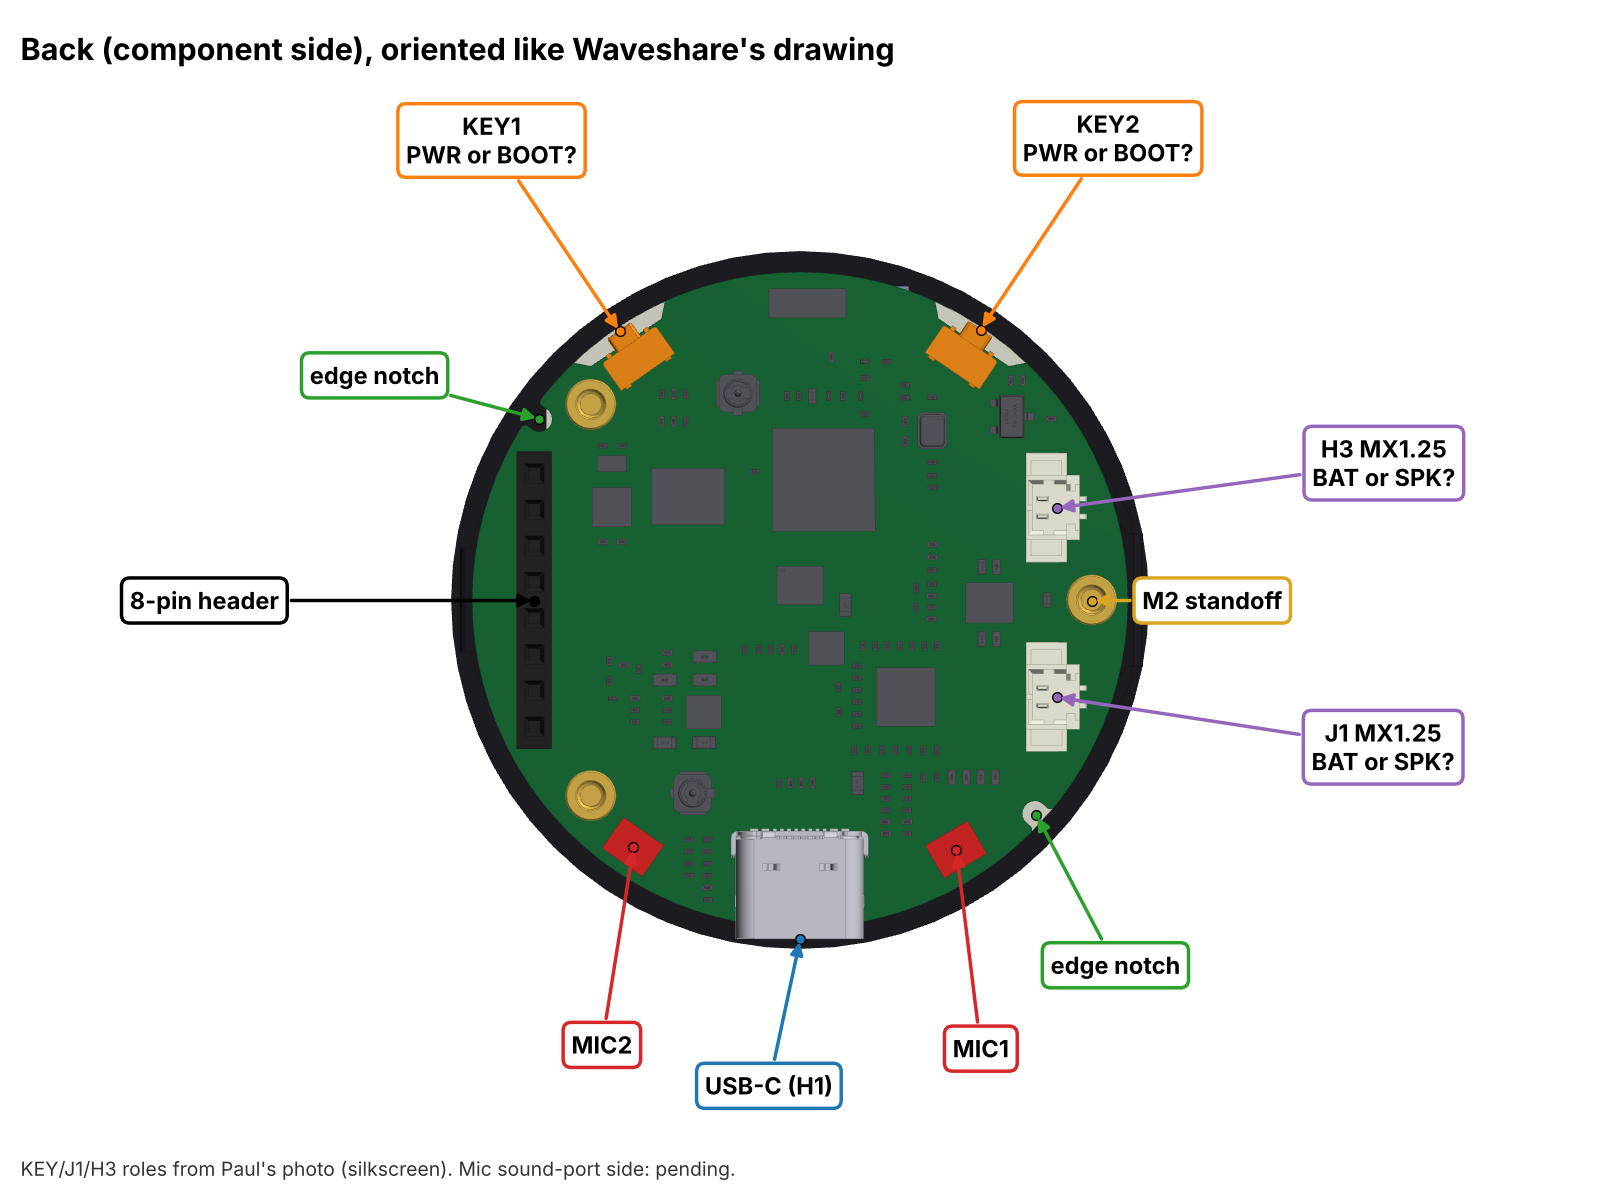
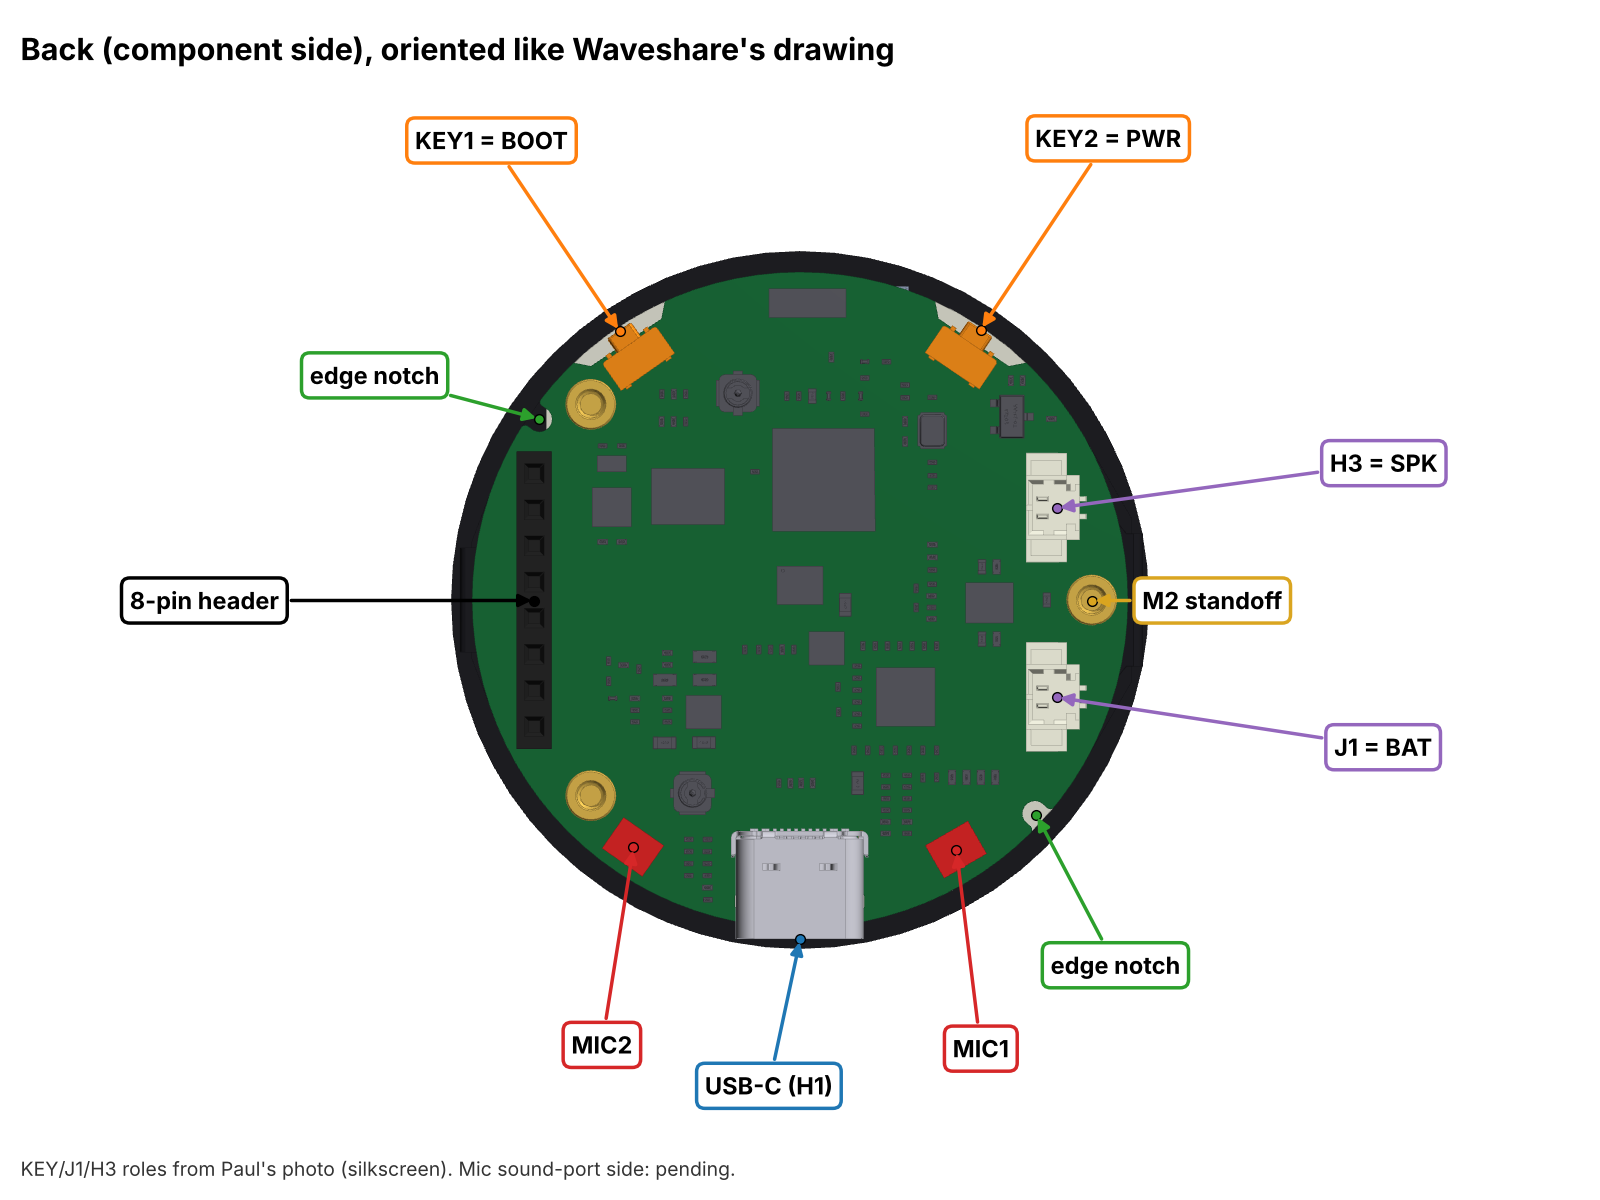
Enclosure: label PWR/BOOT/BAT/SPK in the Phase 0 render
Claude-Session: https://claude.ai/code/session_01LW7dNkPFWNphqvwFHeDcLz

diff --git a/enclosure/phase0.py b/enclosure/phase0.py
@@ -99,12 +99,12 @@ def main():
         footer="KEY/J1/H3 roles from Paul's photo (silkscreen). Mic sound-port side: pending.",
         labels=[
             (usb, "USB-C (H1)", complex(150, 12), "tab:blue"),
-            (k1, "KEY1\nPWR or BOOT?", 230, "tab:orange"),
-            (k2, "KEY2\nPWR or BOOT?", 230, "tab:orange"),
+            (k1, "KEY1 = BOOT", 230, "tab:orange"),
+            (k2, "KEY2 = PWR", 230, "tab:orange"),
             ((m1[0], m1[1], -1.1), "MIC1", complex(200, 25), "tab:red"),
             ((m2[0], m2[1], -1.1), "MIC2", complex(200, -25), "tab:red"),
-            (cen(j1), "J1 MX1.25\nBAT or SPK?", complex(330, -12), "tab:purple"),
-            (cen(h3), "H3 MX1.25\nBAT or SPK?", complex(330, 12), "tab:purple"),
+            (cen(j1), "J1 = BAT", complex(330, -12), "tab:purple"),
+            (cen(h3), "H3 = SPK", complex(330, 12), "tab:purple"),
             ((0, -18.7, -5.8), "8-pin header", 330, "black"),
             ((notch[0][0], notch[0][1], 0), "edge notch", complex(170, -20), "tab:green"),
             ((notch[1][0], notch[1][1], 0), "edge notch", complex(170, 20), "tab:green"),
